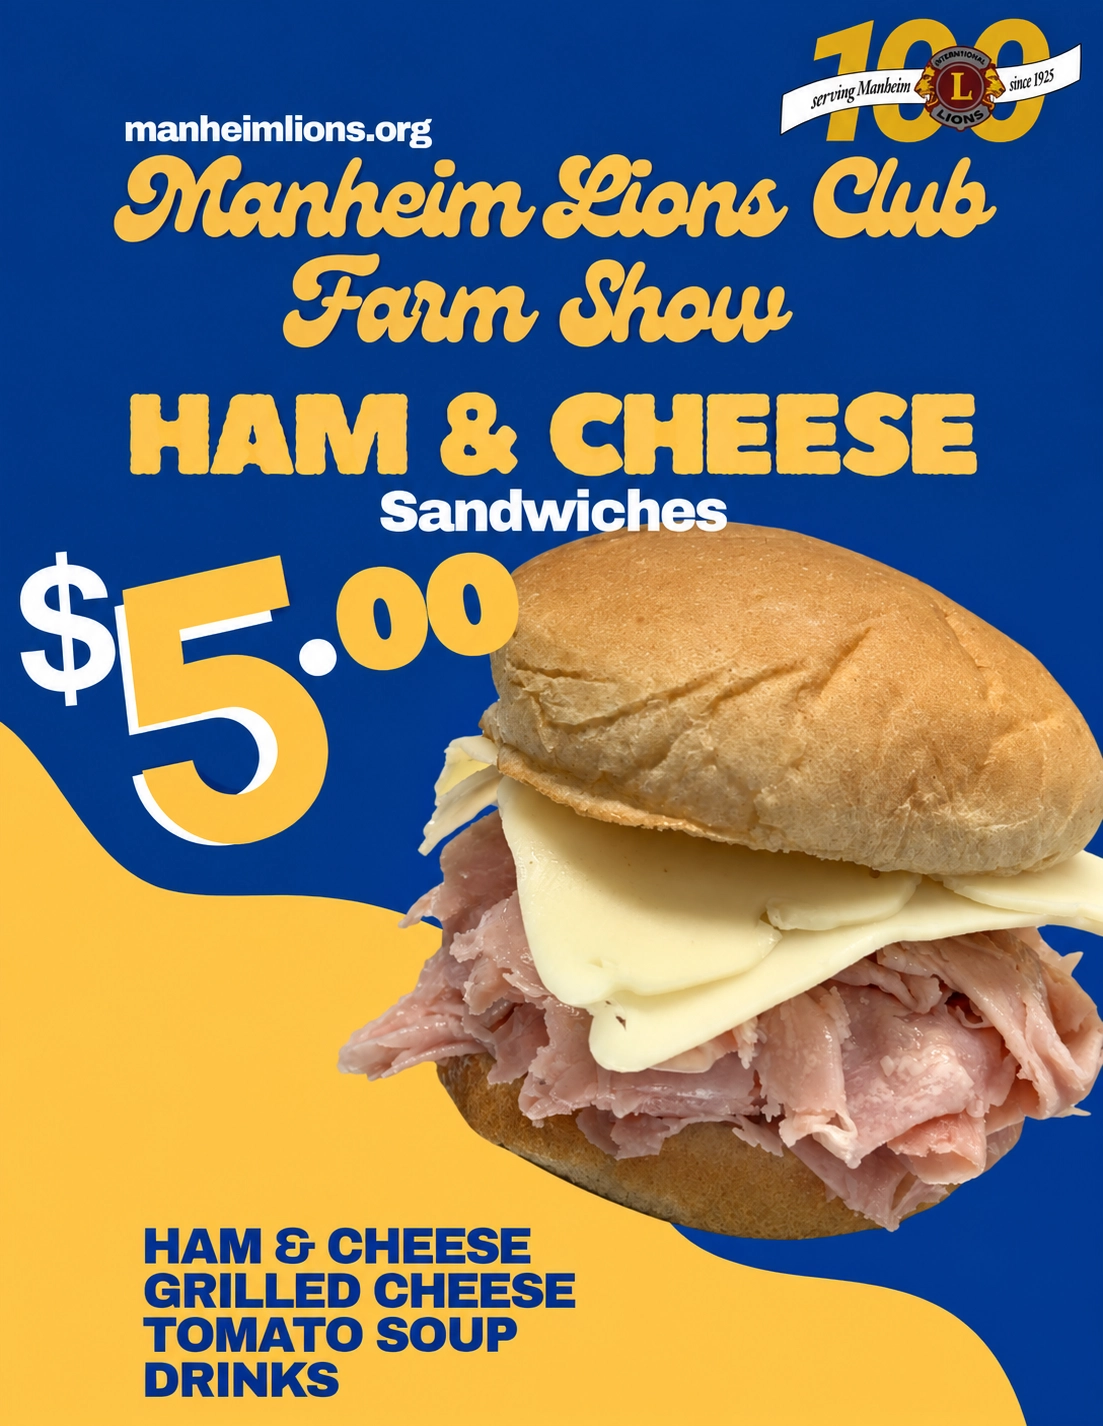
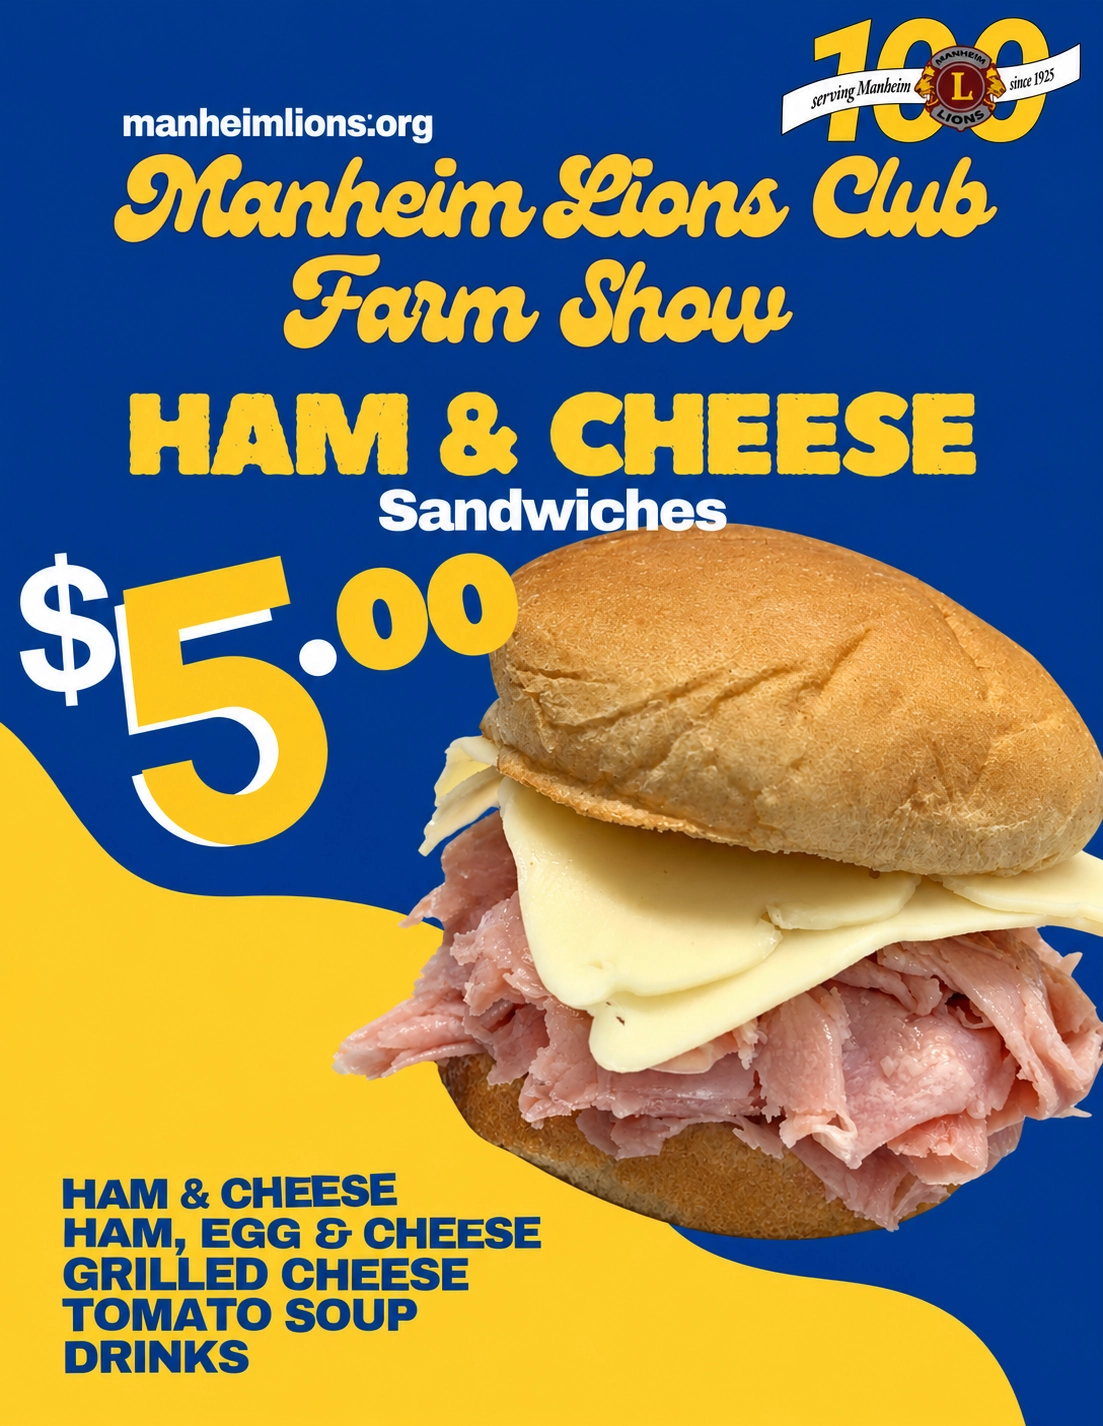
feat: revert to non 100yr branding + update farm show flyer

diff --git a/src/assets/scss/base/_root.scss b/src/assets/scss/base/_root.scss
@@ -11,8 +11,8 @@
   --mapwidth: 500px;
 
   // brand colors (change these to your own brand colors)
-  --brand-primary: #deaa0e;
-  --brand-secondary: #5a0c0a;
+  --brand-primary: #ebb700; // Lions gold (PMS 7406)
+  --brand-secondary: #00338d; // Lions blue (PMS 287)
   --brand-neutral: #b9bec4;
 
   // pallet brand
